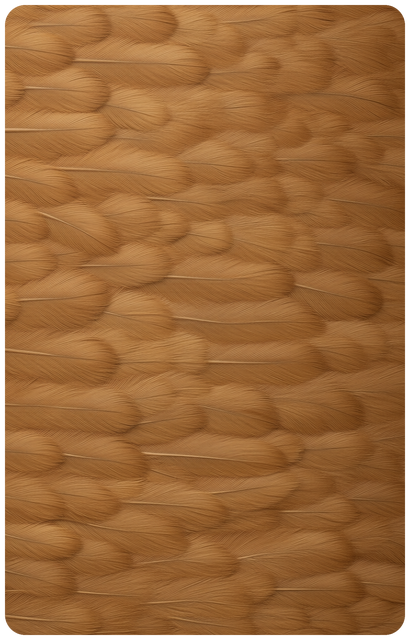
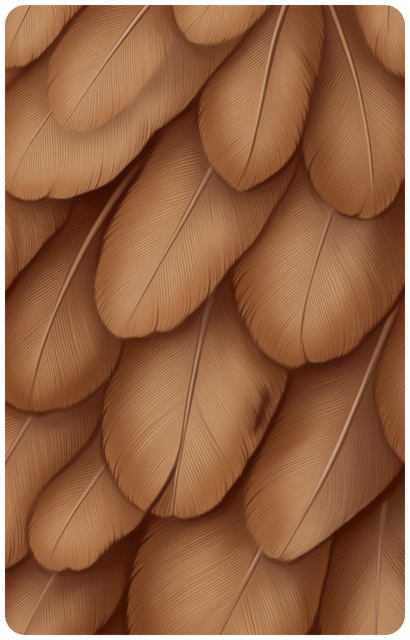
fix(art): ヤケイの怪我の地を、鳥の肩から切り出して作り直す
羽を素材として頼むと翼の風切羽を並べた面になり、胴の羽の並びにならない（言い方を
変えて2周、16枚とも）。鳥を1羽出させて肩の羽だけを切り出せば、並びは実物のままになる。

切り出す段（レシピのcrop、crop_patch.py）を足した。狭く採って大きく引き伸ばしても、
ぼけた分はQwenが描き戻すので、頭も背景も混じらない小さな範囲を選べる。

diff --git a/tools/comfyui/crop_patch.py b/tools/comfyui/crop_patch.py
@@ -1,0 +1,47 @@
+"""生成した絵の一部を切り出して、そのまま1枚の絵として使える大きさへ引き伸ばす。
+
+    python crop_patch.py in.png --out patch.png --box 330 660 400 620 --size 832 1280
+
+**カードの地に敷く素材は、素材そのものを頼むより物から切り出したほうが正しい。** 羽を素材として
+頼むと、翼の風切羽を並べた面になって胴の羽の並びにならなかった（recipes/junglefowl_injuries_card.json）。
+鳥を1羽描かせてその胴から切り出せば、並びは実物のままになる。
+
+引き伸ばしで細部は甘くなるが、この後に Qwen Image Edit を通すので問題にならない——**Qwenへ渡すのは
+並びだけ**で、質感はそちらが描き直す。
+"""
+
+from __future__ import annotations
+
+import argparse
+
+from PIL import Image
+
+
+def main() -> None:
+    parser = argparse.ArgumentParser(description=__doc__)
+    parser.add_argument("input", help="切り出す元のPNG")
+    parser.add_argument("--out", required=True, help="PNGの保存先ファイル")
+    parser.add_argument(
+        "--box",
+        type=int,
+        nargs=4,
+        required=True,
+        metavar=("X", "Y", "W", "H"),
+        help="切り出す矩形（元の絵の座標）",
+    )
+    parser.add_argument(
+        "--size", type=int, nargs=2, required=True, metavar=("W", "H"), help="引き伸ばす先の寸法"
+    )
+    args = parser.parse_args()
+
+    x, y, width, height = args.box
+    image = Image.open(args.input).convert("RGB")
+    if x < 0 or y < 0 or x + width > image.width or y + height > image.height:
+        raise SystemExit(f"切り出す矩形が絵からはみ出しています（絵は{image.width}x{image.height}）")
+    patch = image.crop((x, y, x + width, y + height)).resize(tuple(args.size), Image.LANCZOS)
+    patch.save(args.out)
+    print(f"-> {args.out}  {patch.width}x{patch.height}")
+
+
+if __name__ == "__main__":
+    main()

diff --git a/tools/comfyui/build.py b/tools/comfyui/build.py
@@ -10,7 +10,8 @@
 （icon_mark.py）、tint があれば陰影を残したまま一部の色を寄せる（skin_tint.py）。
 edit を持つレシピは、生成の代わりに別レシピの生データを
 基準にした Qwen Image Edit で生データを作る（README「既存の絵からの派生」節）。sketch を持つレシピは
-物の配置だけを描いた下絵を出す（layout_sketch.py）。stain を持つレシピは
+物の配置だけを描いた下絵を出す（layout_sketch.py）。crop を持つレシピは、生成した絵の一部だけを
+切り出して次の段へ渡す（crop_patch.py）。stain を持つレシピは
 生成も後処理もせず、乗算で載る染みの層を描くだけ（skin_tint.py --layer）。puff も同じく描くだけで、
 砂埃の粒を1枚出す（dust_puff.py）。
 
@@ -234,7 +235,21 @@ def produce_raw(recipe: dict, recipes_dir: Path, raw_dir: Path, server: str) -> 
     raw = raw_dir / f"{recipe['prompt']}_{recipe['seed']}.png"
     if not raw.exists():
         raise SystemExit(f"生成物が見つかりません: {raw}")
-    return raw
+
+    crop = recipe.get("crop")
+    if crop is None:
+        return raw
+    patch = raw_dir / f"{Path(recipe['output']).stem}_patch.png"
+    run(
+        "crop_patch.py",
+        [
+            str(raw),
+            "--out", str(patch),
+            "--box", *map(str, crop["box"]),
+            "--size", *map(str, crop["size"]),
+        ],
+    )
+    return patch
 
 
 def ensure_fresh_process(workflow: str | None, server: str) -> None:
